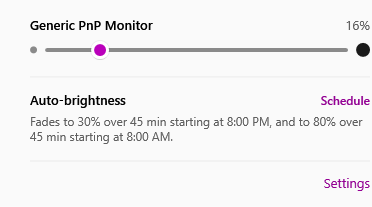
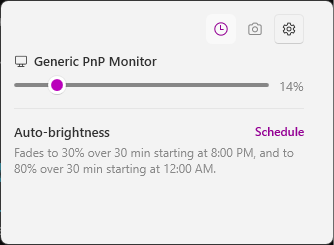
Fix flyout leftover-gap bug, label portable exe, refresh README/screenshots
- FlyoutWindow: toggling a mode on then off again in place (header icon
  click) left the window stuck at the taller size instead of shrinking
  back down -- SizeToContent needed an explicit remeasure, same fix
  ShowNearCursor already had for a different trigger (Hide/Show cycles).
  Extended the --test-flyout-resize self-check to cover this.
- release.yml: the portable exe asset is now named
  ddcbright-<version>-portable.exe instead of ddcbright-<version>.exe,
  so it's unambiguous next to the installer on the Releases page.
- README: updated the feature list and Install section for everything
  shipped this session (quick mode-toggle icons, manual-overrides-auto,
  Check for Updates, DDC/CI failure indicator, autostart toggle) and
  replaced the screenshots, which predated the whole redesign.

diff --git a/windows/DdcBright/FlyoutWindow.xaml.cs b/windows/DdcBright/FlyoutWindow.xaml.cs
@@ -81,7 +81,9 @@ public partial class FlyoutWindow : FluentWindow
 
     private void Window_Deactivated(object sender, EventArgs e) => Hide();
 
-    private void RefreshAutoModeUi()
+    // internal (not private): App's --test-flyout-resize self-check exercises
+    // this directly to simulate an in-place header-icon mode toggle.
+    internal void RefreshAutoModeUi()
     {
         // Reflect the real setting on the header icons even when it was
         // changed elsewhere (Settings window) -- setting IsChecked here
@@ -93,16 +95,39 @@ public partial class FlyoutWindow : FluentWindow
         // glancing at, just clutter.
         var isOff = _settings.AutoBrightnessMode == AutoBrightnessMode.Off;
         AutoBrightnessSection.Visibility = isOff ? Visibility.Collapsed : Visibility.Visible;
-        if (isOff) return;
 
-        AutoStatusText.Text = AutoModeStatus.GetText(_settings);
-        AutoModeBadgeText.Text = _settings.AutoBrightnessMode == AutoBrightnessMode.Schedule ? "Schedule" : "Ambient";
+        if (!isOff)
+        {
+            AutoStatusText.Text = AutoModeStatus.GetText(_settings);
+            AutoModeBadgeText.Text = _settings.AutoBrightnessMode == AutoBrightnessMode.Schedule ? "Schedule" : "Ambient";
 
-        // AccentTextFillColorPrimaryBrush, not SystemAccentColorPrimaryBrush:
-        // the latter is meant for fills (buttons, toggles), not calibrated
-        // for text-on-neutral-background contrast -- it read as barely
-        // readable for the "Settings" link before this fix.
-        AutoModeBadgeText.Foreground = (Brush)FindResource("AccentTextFillColorPrimaryBrush");
+            // AccentTextFillColorPrimaryBrush, not SystemAccentColorPrimaryBrush:
+            // the latter is meant for fills (buttons, toggles), not calibrated
+            // for text-on-neutral-background contrast -- it read as barely
+            // readable for the "Settings" link before this fix.
+            AutoModeBadgeText.Foreground = (Brush)FindResource("AccentTextFillColorPrimaryBrush");
+        }
+
+        // Toggling AutoBrightnessSection's Visibility while the flyout is
+        // already open (header icon click, not a fresh ShowNearCursor) hits
+        // the same "SizeToContent stuck at a previous taller size" quirk
+        // ShowNearCursor works around -- without this, turning a mode back
+        // off left a blank gap where the status section used to be, because
+        // the HWND never shrank back down even though the content did.
+        // IsVisible guards this to only run while actually on screen (not
+        // during ShowNearCursor's own pre-Show setup, or --render-preview's
+        // headless content, which handle sizing themselves).
+        if (IsVisible)
+        {
+            Width = double.NaN;
+            Height = double.NaN;
+            InvalidateMeasure();
+            InvalidateArrange();
+            UpdateLayout();
+
+            var workArea = System.Windows.Forms.Screen.FromPoint(new System.Drawing.Point((int)Left, (int)Top)).WorkingArea;
+            Top = workArea.Bottom - ActualHeight - 8;
+        }
     }
 
     private void RebuildMonitorRows()

diff --git a/windows/DdcBright/App.xaml.cs b/windows/DdcBright/App.xaml.cs
@@ -333,6 +333,32 @@ public partial class App : System.Windows.Application
                 ? "RESULT: PASS (same height both opens)"
                 : $"RESULT: FAIL (height changed by {shortHeight - tallHeight:F0}px on re-open with identical content)");
 
+            // Reported repro #2: toggling a mode on then off again IN PLACE
+            // (header icon click, not a Hide/Show cycle) used to leave the
+            // window stuck at the taller "mode on" height instead of
+            // shrinking back down once AutoBrightnessSection collapsed again.
+            // The meaningful invariant isn't "matches some earlier
+            // measurement" (ShowNearCursor's own reset turned out to settle
+            // at a slightly-too-wide/tall fixed point across repeated opens
+            // in testing, unrelated to this fix) -- it's "shrinking removes
+            // exactly what the section was contributing," i.e. no leftover
+            // blank gap where its content used to be.
+            settings.AutoBrightnessMode = AutoBrightnessMode.Schedule;
+            flyout.RefreshAutoModeUi();
+            var onHeight = flyout.ActualHeight;
+            var sectionHeight = flyout.AutoBrightnessSection.ActualHeight;
+            log.Add($"On (Schedule) height: {onHeight:F0}px, section height: {sectionHeight:F0}px");
+
+            settings.AutoBrightnessMode = AutoBrightnessMode.Off;
+            flyout.RefreshAutoModeUi();
+            var backToOffHeight = flyout.ActualHeight;
+            var expectedOffHeight = onHeight - sectionHeight;
+            log.Add($"Back to Off height: {backToOffHeight:F0}px (expected {expectedOffHeight:F0}px)");
+
+            log.Add(Math.Abs(backToOffHeight - expectedOffHeight) < 1
+                ? "RESULT: PASS (shrinks back by exactly the section's height, no leftover gap)"
+                : $"RESULT: FAIL (leftover gap of {backToOffHeight - expectedOffHeight:F0}px after in-place mode toggle)");
+
             flyout.Close();
         }
         catch (Exception ex)

diff --git a/README.md b/README.md
@@ -17,18 +17,21 @@ flyout that matches your Windows theme and gets out of your way.
 
 ## Features
 
-- **Flyout** — click the tray icon, drag a slider per monitor, done. Scroll over the tray icon to nudge brightness without even opening it.
-- **Schedule** — dim in the evening, brighten in the morning, with an optional gradual fade instead of an instant jump.
+- **Flyout** — click the tray icon, drag a slider per monitor, done. Scroll over the tray icon (or hover it — the tooltip shows the current brightness %) to nudge brightness without even opening it. A small icon toolbar (Schedule, Ambient, link monitors, Settings) switches modes in one click, right from the flyout.
+- **Schedule** — dim in the evening, brighten in the morning, with an optional gradual fade instead of an instant jump. On a multi-monitor setup, each monitor fades from its own current brightness rather than snapping to match whichever one it reads first.
 - **Ambient** — samples your webcam every 30 seconds and estimates room brightness instead of following a fixed clock. Never dims below 10%, and Settings has a camera picker plus a one-click "Test now" to check it's actually reading your camera.
+- **Manual takes over** — drag a slider or scroll the tray icon while Schedule/Ambient is active, and it switches back to manual (Off) automatically instead of getting silently overwritten on the next tick.
 - **Native UI** — real Mica/Acrylic, matches your Windows light/dark theme and accent color, not a repainted cross-platform toolkit window.
-- **Quiet** — registers its own autostart at login on first run; no installer nagging, no background service beyond the tray icon itself.
+- **Check for Updates** — right-click the tray icon; checks GitHub Releases and offers to open the releases page if a newer version is out.
+- **Tells you when a monitor doesn't respond** — DDC/CI writes can silently fail (asleep, flaky USB-C hub); the flyout shows a small warning next to that monitor instead of pretending it worked.
+- **Quiet** — registers its own autostart at login on first run, with a Settings toggle to turn it off; no installer nagging, no background service beyond the tray icon itself.
 
 ## Install
 
-Grab an asset from [Releases](https://github.com/mvrck19/ddcbright/releases):
+Grab an asset from [Releases](https://github.com/mvrck19/ddcbright/releases) — both are named for what they are:
 
-- **Installer** — download `ddcbright-setup.exe` and run it. Adds a Start Menu shortcut and a proper Add/Remove Programs entry. No admin rights needed (installs to your user profile).
-- **Portable** — download `ddcbright.exe` and run it directly. Self-contained, nothing to install, nothing left behind but the autostart entry it registers on first run.
+- **Installer** — `ddcbright-setup-<version>.exe`. Adds a Start Menu shortcut and a proper Add/Remove Programs entry. No admin rights needed (installs to your user profile).
+- **Portable** — `ddcbright-<version>-portable.exe`. Self-contained, nothing to install, run it from anywhere. It still registers its own autostart entry on first launch (toggle it off in Settings if you don't want that) since that happens in the app itself, not the installer.
 
 ## Troubleshooting
 
